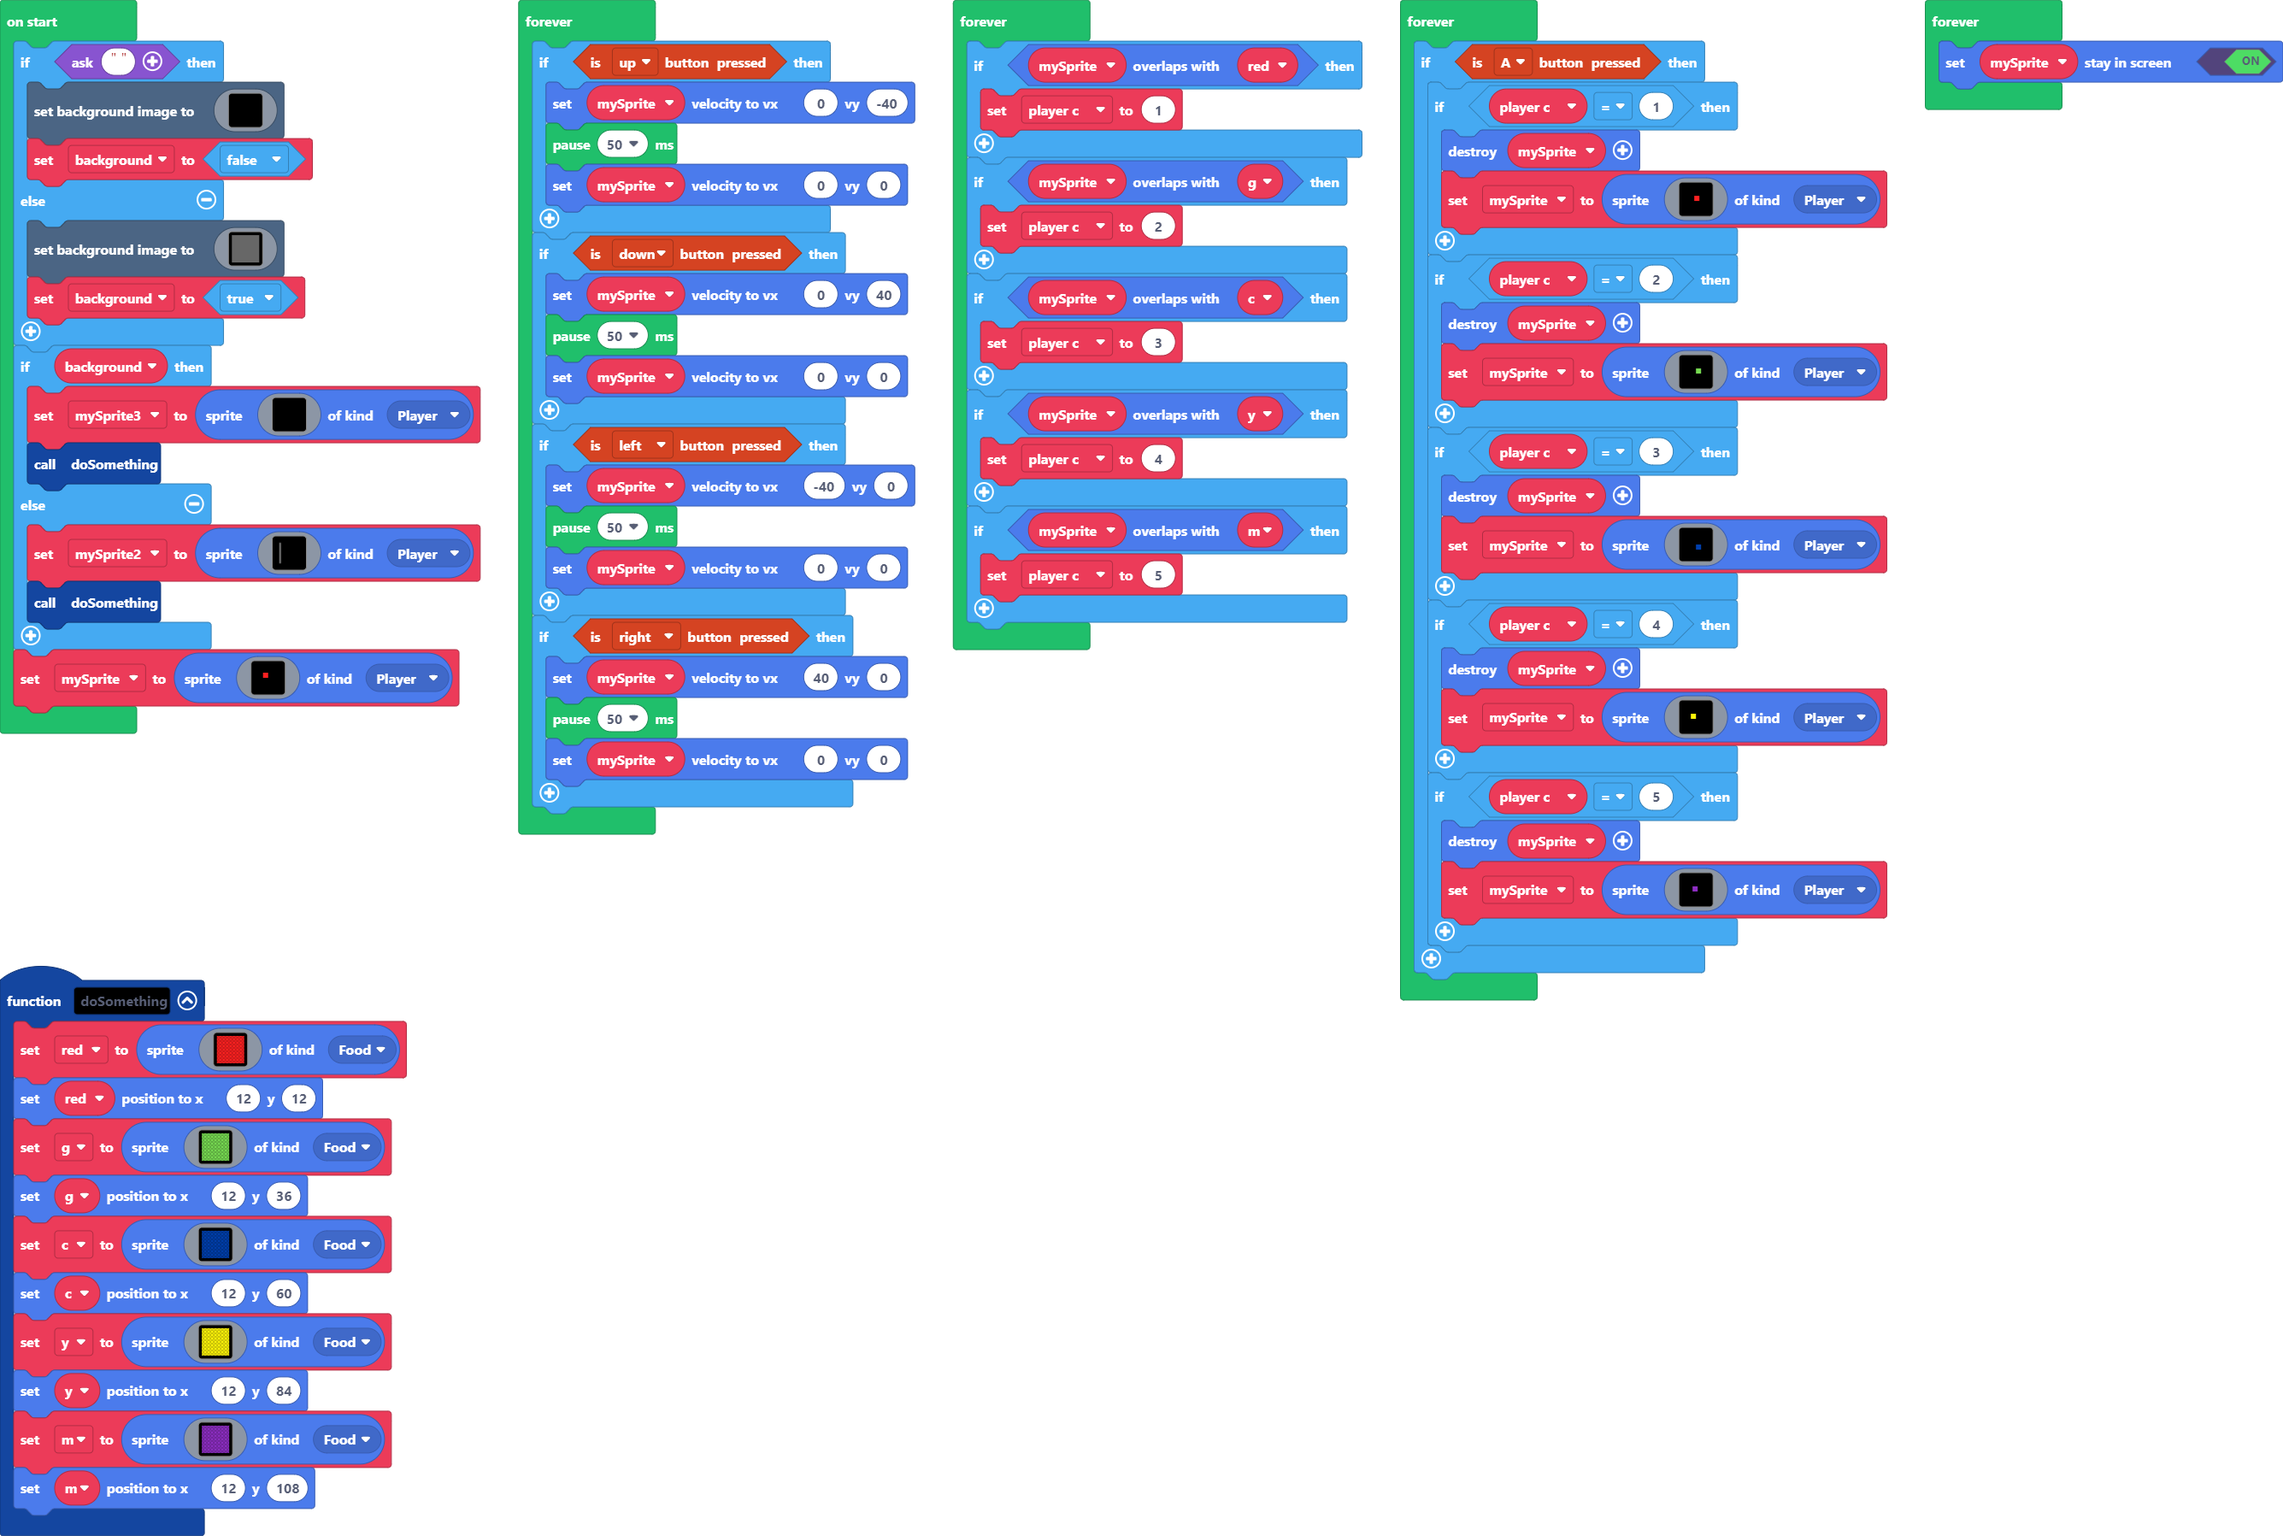
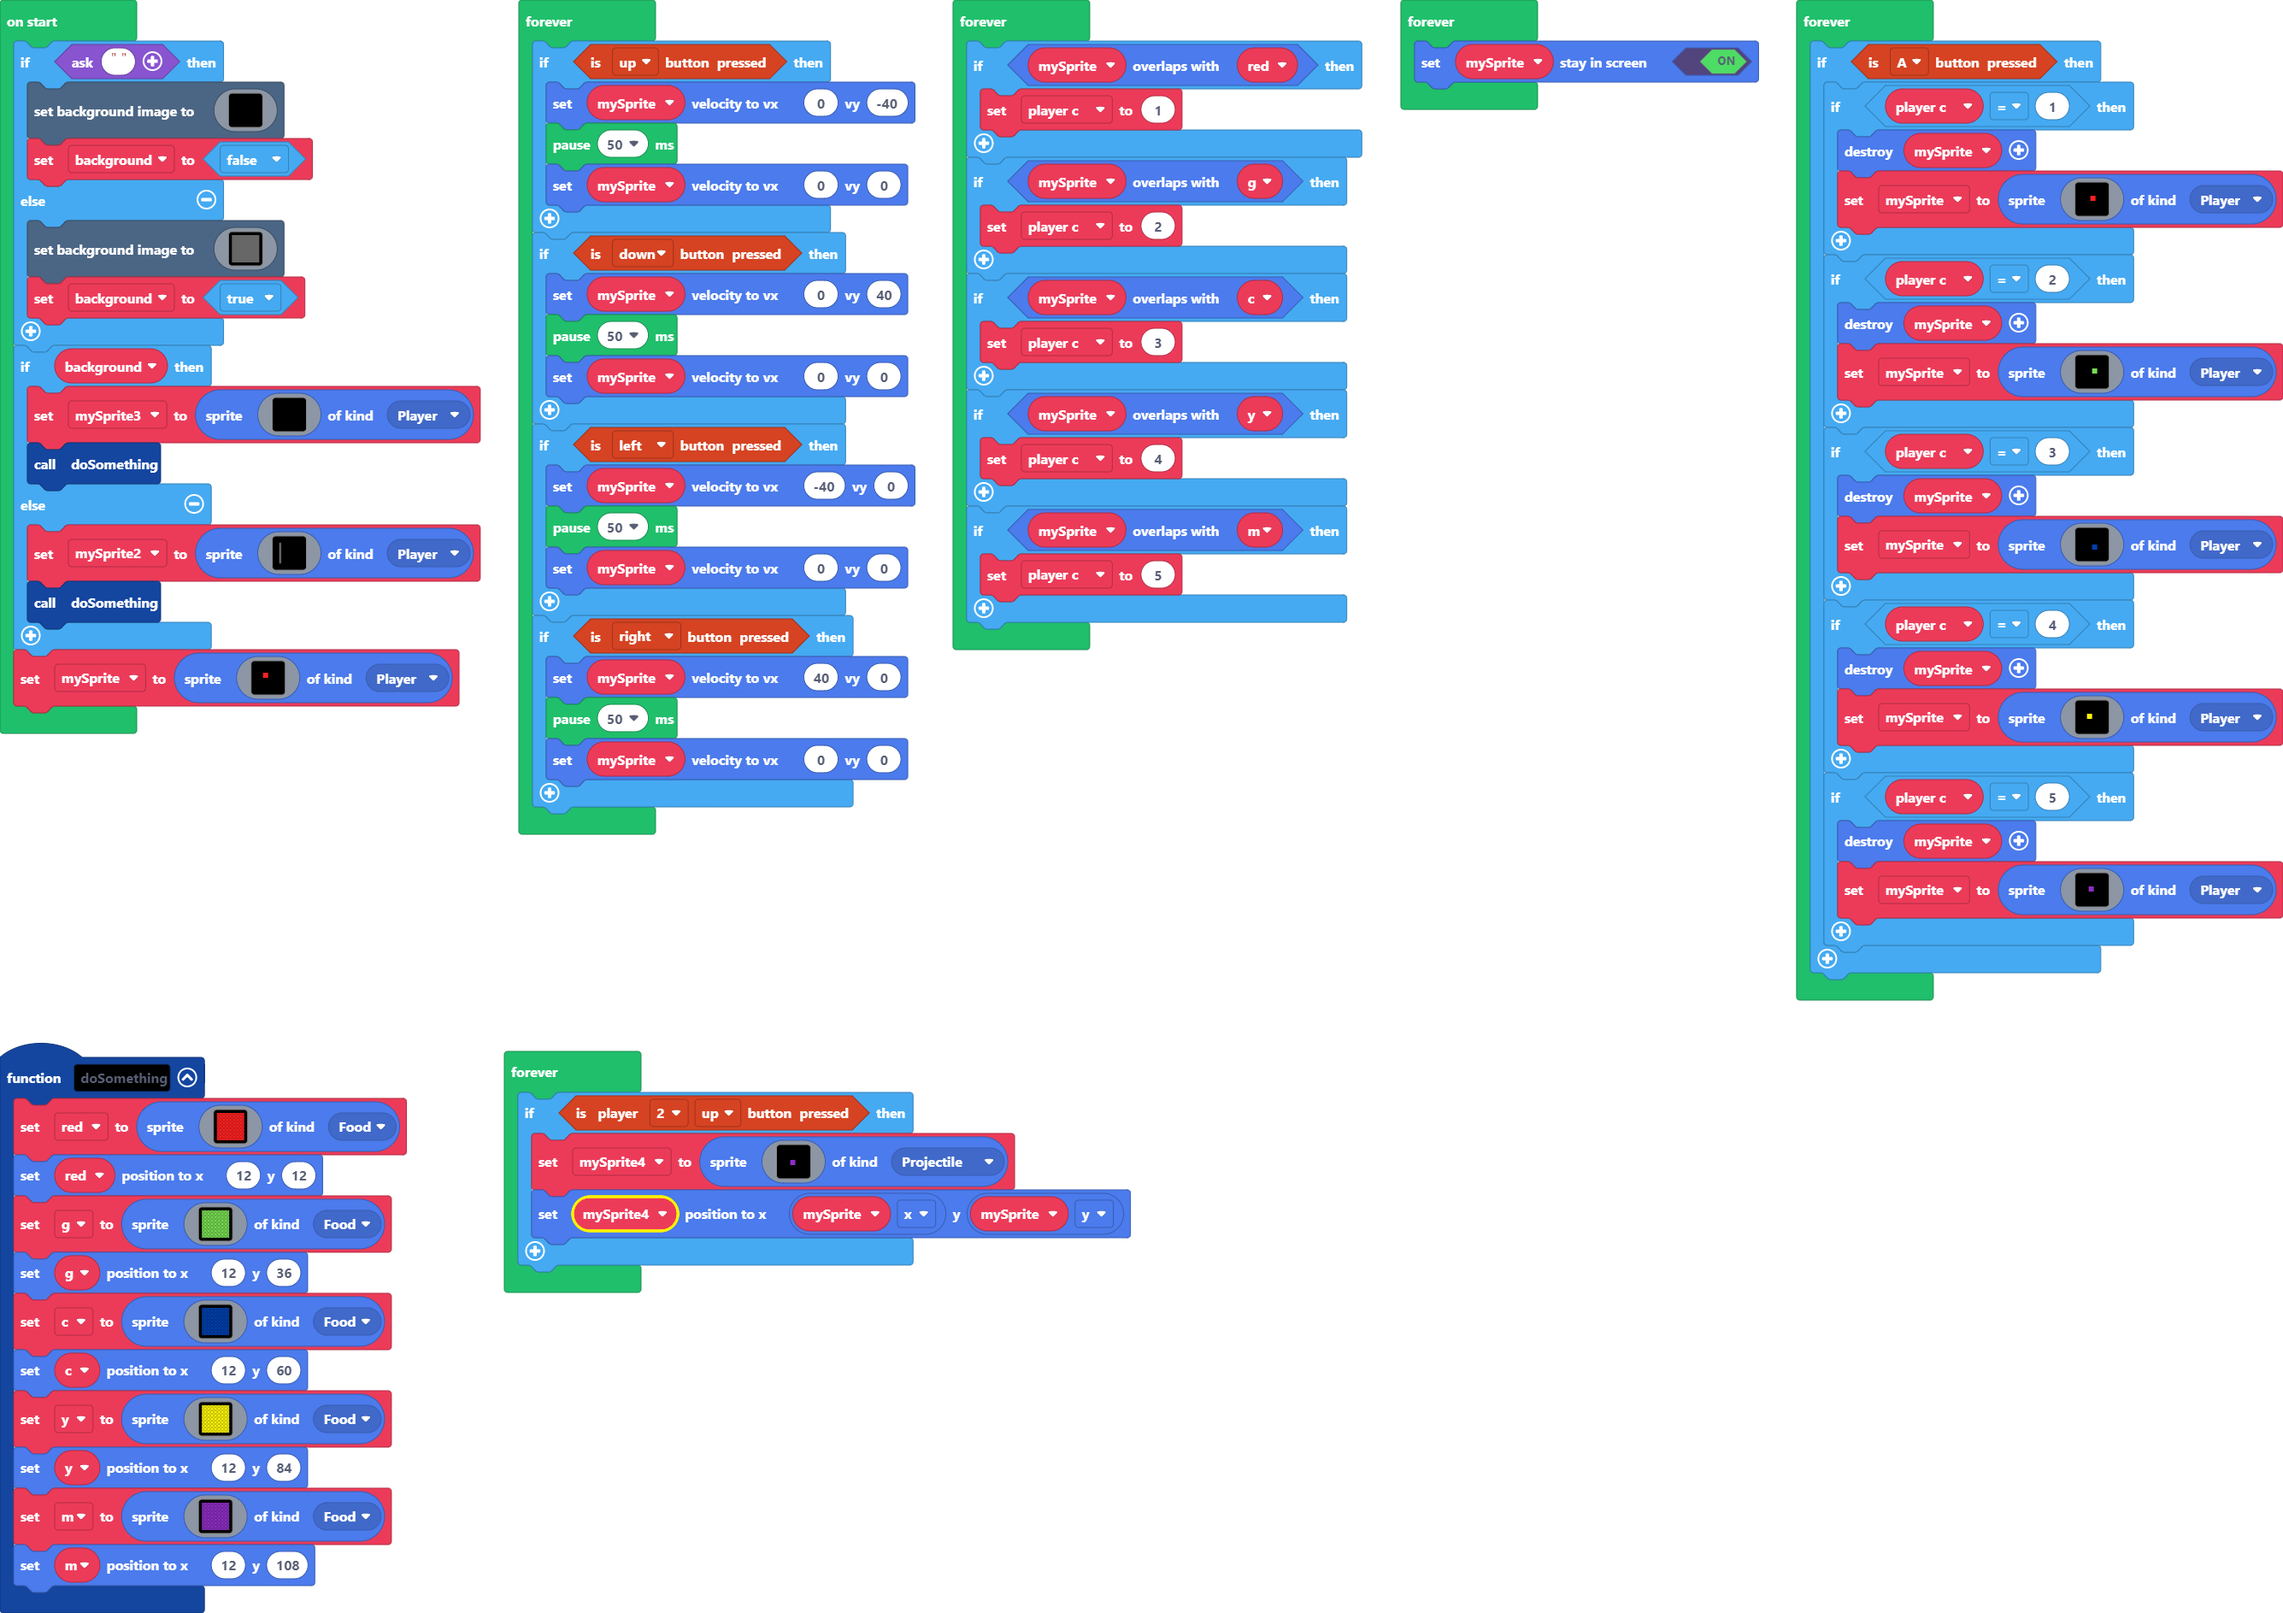
pen up/ down

diff --git a/main.ts b/main.ts
@@ -135,6 +135,7 @@ function doSomething () {
         `, SpriteKind.Food)
     m.setPosition(12, 108)
 }
+let mySprite4: Sprite = null
 let player_c = 0
 let m: Sprite = null
 let y: Sprite = null
@@ -1484,6 +1485,9 @@ forever(function () {
     }
 })
 forever(function () {
+    mySprite.setStayInScreen(true)
+})
+forever(function () {
     if (controller.A.isPressed()) {
         if (player_c == 1) {
             mySprite.destroy()
@@ -1593,5 +1597,25 @@ forever(function () {
     }
 })
 forever(function () {
-    mySprite.setStayInScreen(true)
+    if (controller.player2.isPressed(ControllerButton.Up)) {
+        mySprite4 = sprites.create(img`
+            . . . . . . . . . . . . . . . . 
+            . . . . . . . . . . . . . . . . 
+            . . . . . . . . . . . . . . . . 
+            . . . . . . . . . . . . . . . . 
+            . . . . . . . . . . . . . . . . 
+            . . . . . . . . . . . . . . . . 
+            . . . . . . . . . . . . . . . . 
+            . . . . . . a a a . . . . . . . 
+            . . . . . . a a a . . . . . . . 
+            . . . . . . a a a . . . . . . . 
+            . . . . . . . . . . . . . . . . 
+            . . . . . . . . . . . . . . . . 
+            . . . . . . . . . . . . . . . . 
+            . . . . . . . . . . . . . . . . 
+            . . . . . . . . . . . . . . . . 
+            . . . . . . . . . . . . . . . . 
+            `, SpriteKind.Projectile)
+        mySprite4.setPosition(mySprite.x, mySprite.y)
+    }
 })

diff --git a/tilemap.g.ts b/tilemap.g.ts
@@ -1,0 +1,14 @@
+// Auto-generated code. Do not edit.
+namespace myTiles {
+    //% fixedInstance jres blockIdentity=images._tile
+    export const transparency16 = image.ofBuffer(hex``);
+
+    helpers._registerFactory("tile", function(name: string) {
+        switch(helpers.stringTrim(name)) {
+            case "transparency16":return transparency16;
+        }
+        return null;
+    })
+
+}
+// Auto-generated code. Do not edit.
